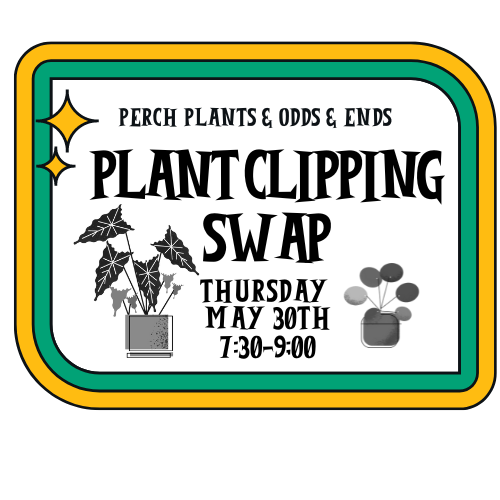
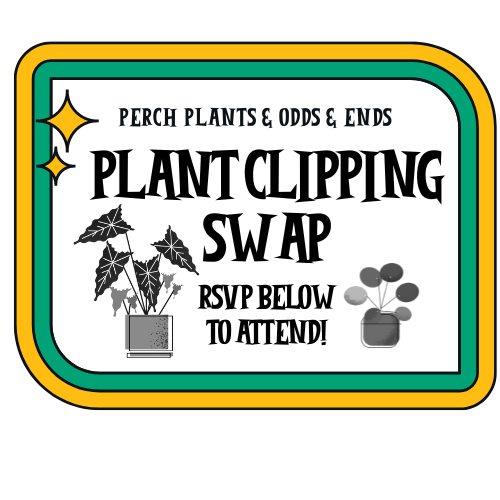
adds blob details, adds gift cards

Changed region(s): [[0.39, 0.54, 0.69, 0.72]]

diff --git a/index.html b/index.html
@@ -15,6 +15,7 @@
           <li><a href="#services">Services</a></li>
           <li><a href="#events">Events</a></li>
           <li><a href="#hoursAndLocation">Contact</a></li>
+          <li><a href="https://squareup.com/gift/MLR7KPJXM16CN/order">Gift Cards</a></li>
         </ul>
       </nav>
 
@@ -37,6 +38,7 @@
       <div id="events">
         <h2 class="sectionHeader">Events at Perch</h2>
         <div class="eventGroup">
+          
           <!-- first -->
                     <!-- Plant Swap -->
                     <div class="event">
@@ -45,7 +47,7 @@
                           <div class="eventTitle">
                             Plant Swap @ Perch!
                             <span class="eventDate">
-                                 Thursday 5/30<br> @ 7:30-9:00 PM<br>
+                                 Thursday 6/27<br> @ 7:30-9:00 PM<br>
                             </span>
                           </div>
                         </div>
@@ -82,8 +84,53 @@
                         </a>
                       </div>
                     </div>
-          
+
           <!-- second -->
+          <div class="event">
+            <div class="eventHeader">
+              <img src="./img/blob.png" alt="Event flyer" class="eventFlyer">
+                <div class="eventTitle">
+                  Blob Terrarium
+                  <div class="eventDate">
+                     <span>
+                         Wednesday 7/10 @ 7:30PM</span><br>
+                     <span>
+                        Thursday 7/11 @ 7:30PM
+                    </span><br>
+                  </div>
+                </div>
+              </div>
+            <div class="eventDescription">
+              <p class="eventDescriptionText">
+                <em><strong>Get revved up for BLOBFEST 2024 by spending an evening building a Blob-themed Tropical Terrarium!</strong></em><br>
+              </p>
+              <p class="eventDescriptionText">
+                The workshop will be held at the shop (322 Bridge Ave.)
+              </p>
+              <p class="eventDescriptionText">
+                All materials (container, plants, knick-knacks, and all others) will be included. 
+                Light snacks and refreshments will also be provided. Anything else is BYO! 
+                <br>(There is a Foodery across the street which has a great selection of beer, wine, and <em>exotic sodas!</em>)
+              </p>
+              <p class="eventDescriptionText">
+                <strong>All participants will receive 20% off on all sales in the shop on the night of the class!</strong>
+              </p>
+              <a href="https://buy.stripe.com/5kA29j2Rd5ev1B6bIV">
+                <button class="signUpBtn">Sign-up here!</button>
+              </a>
+              <p class="eventDescriptionText">
+                (This workshop is limited to 8 spots per day!) 
+                <br><br><em>*Please reach out if you would like to do this as a private event! The group must include at least 6 people. *</em>              
+              </p>
+              
+            </div>
+          </div>
+
+
+          
+        </div>
+          
+          <!-- third -->
           <div class="event">
             <div class="eventHeader">
               <img src="./img/sandArt.png" alt="Event flyer" class="eventFlyer">
@@ -91,9 +138,13 @@
                   Sand Art with Air Plants
                   <div class="eventDate">
                      <span>
-                       Wednesday 6/12 @ 7:30PM</span><br>
+                       <strike>
+                         Wednesday 6/12 @ 7:30PM</span><br>
+                       </strike>
                      <span>
+                      <strike>
                         Wednesday 6/19 @ 7:30PM
+                      </strike>
                     </span><br>
                      <span>
                         Wednesday 6/26 @ 7:30PM
@@ -123,12 +174,8 @@
               
             </div>
           </div>
-
-
-          
         </div>
-          
-      </div>
+      
 
         <!-- Services -->
         <div id="services">
